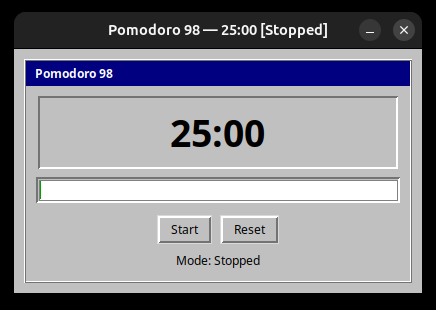
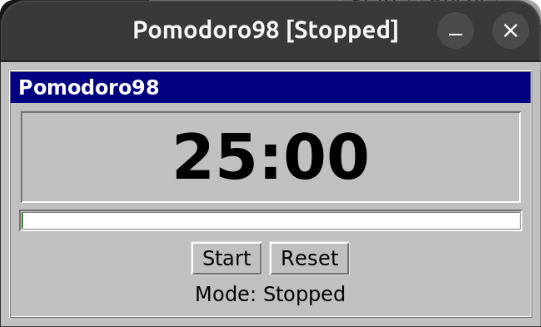
docs: replace the screenshot with the current window (R3D-72)
Use Phani's window-only capture of the current UI (title
"Pomodoro98 [Stopped]", wider window), cropped to the window frame
with transparent rounded top corners so no background shows.

diff --git a/CHANGELOG.md b/CHANGELOG.md
@@ -19,6 +19,7 @@ Releases after 0.1.0 use calendar versioning, `YYYY.MM.PATCH`
 
 ### Changed
 
+- Updated the screenshot to show the current window.
 - The Flatpak uses the Freedesktop 26.08 runtime (Python 3.14), with tkinter
   built from the matching CPython release.
 - The window is wider (about 650 px instead of 410 px), so the title and

diff --git a/README.md b/README.md
@@ -156,7 +156,7 @@ also work on hosts where those mounts fail. Build caching remains enabled for
 
 ![Pomodoro98 application window](docs/screenshots/pomodoro98.png)
 
-Pomodoro98 running a focus session on Linux.
+Pomodoro98 on Ubuntu, ready to begin a focus session.
 
 ## Contributing
 
